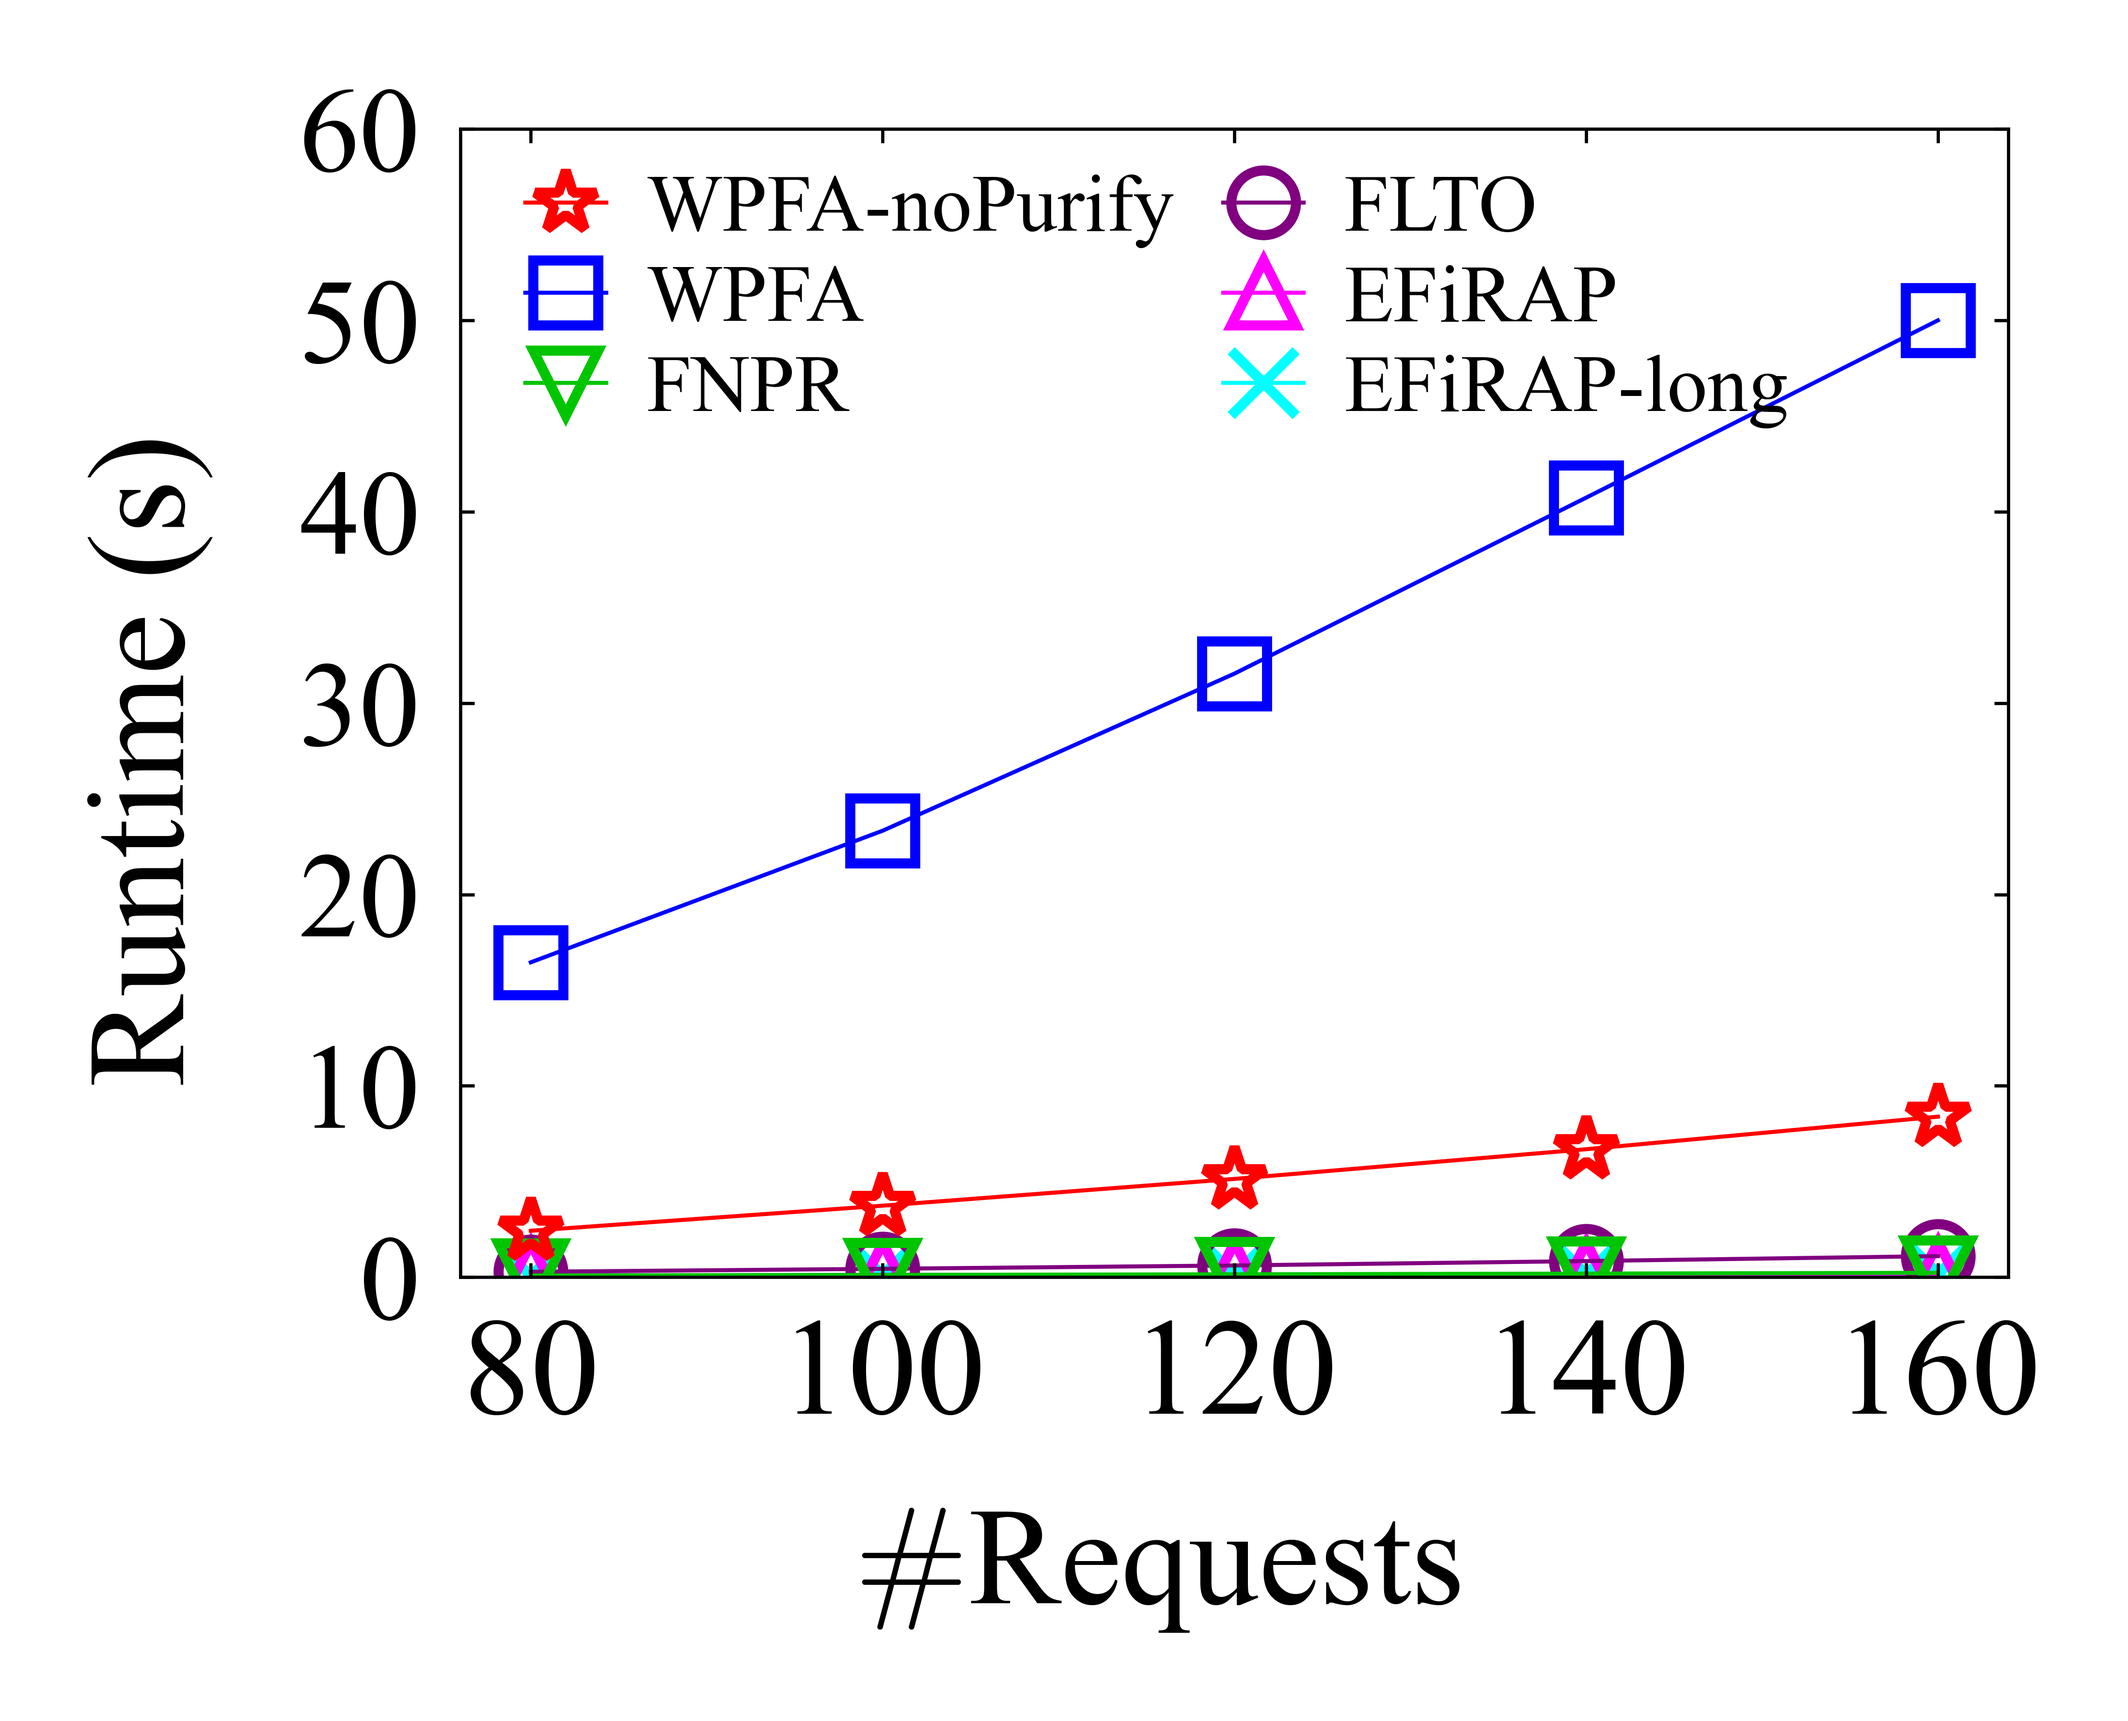
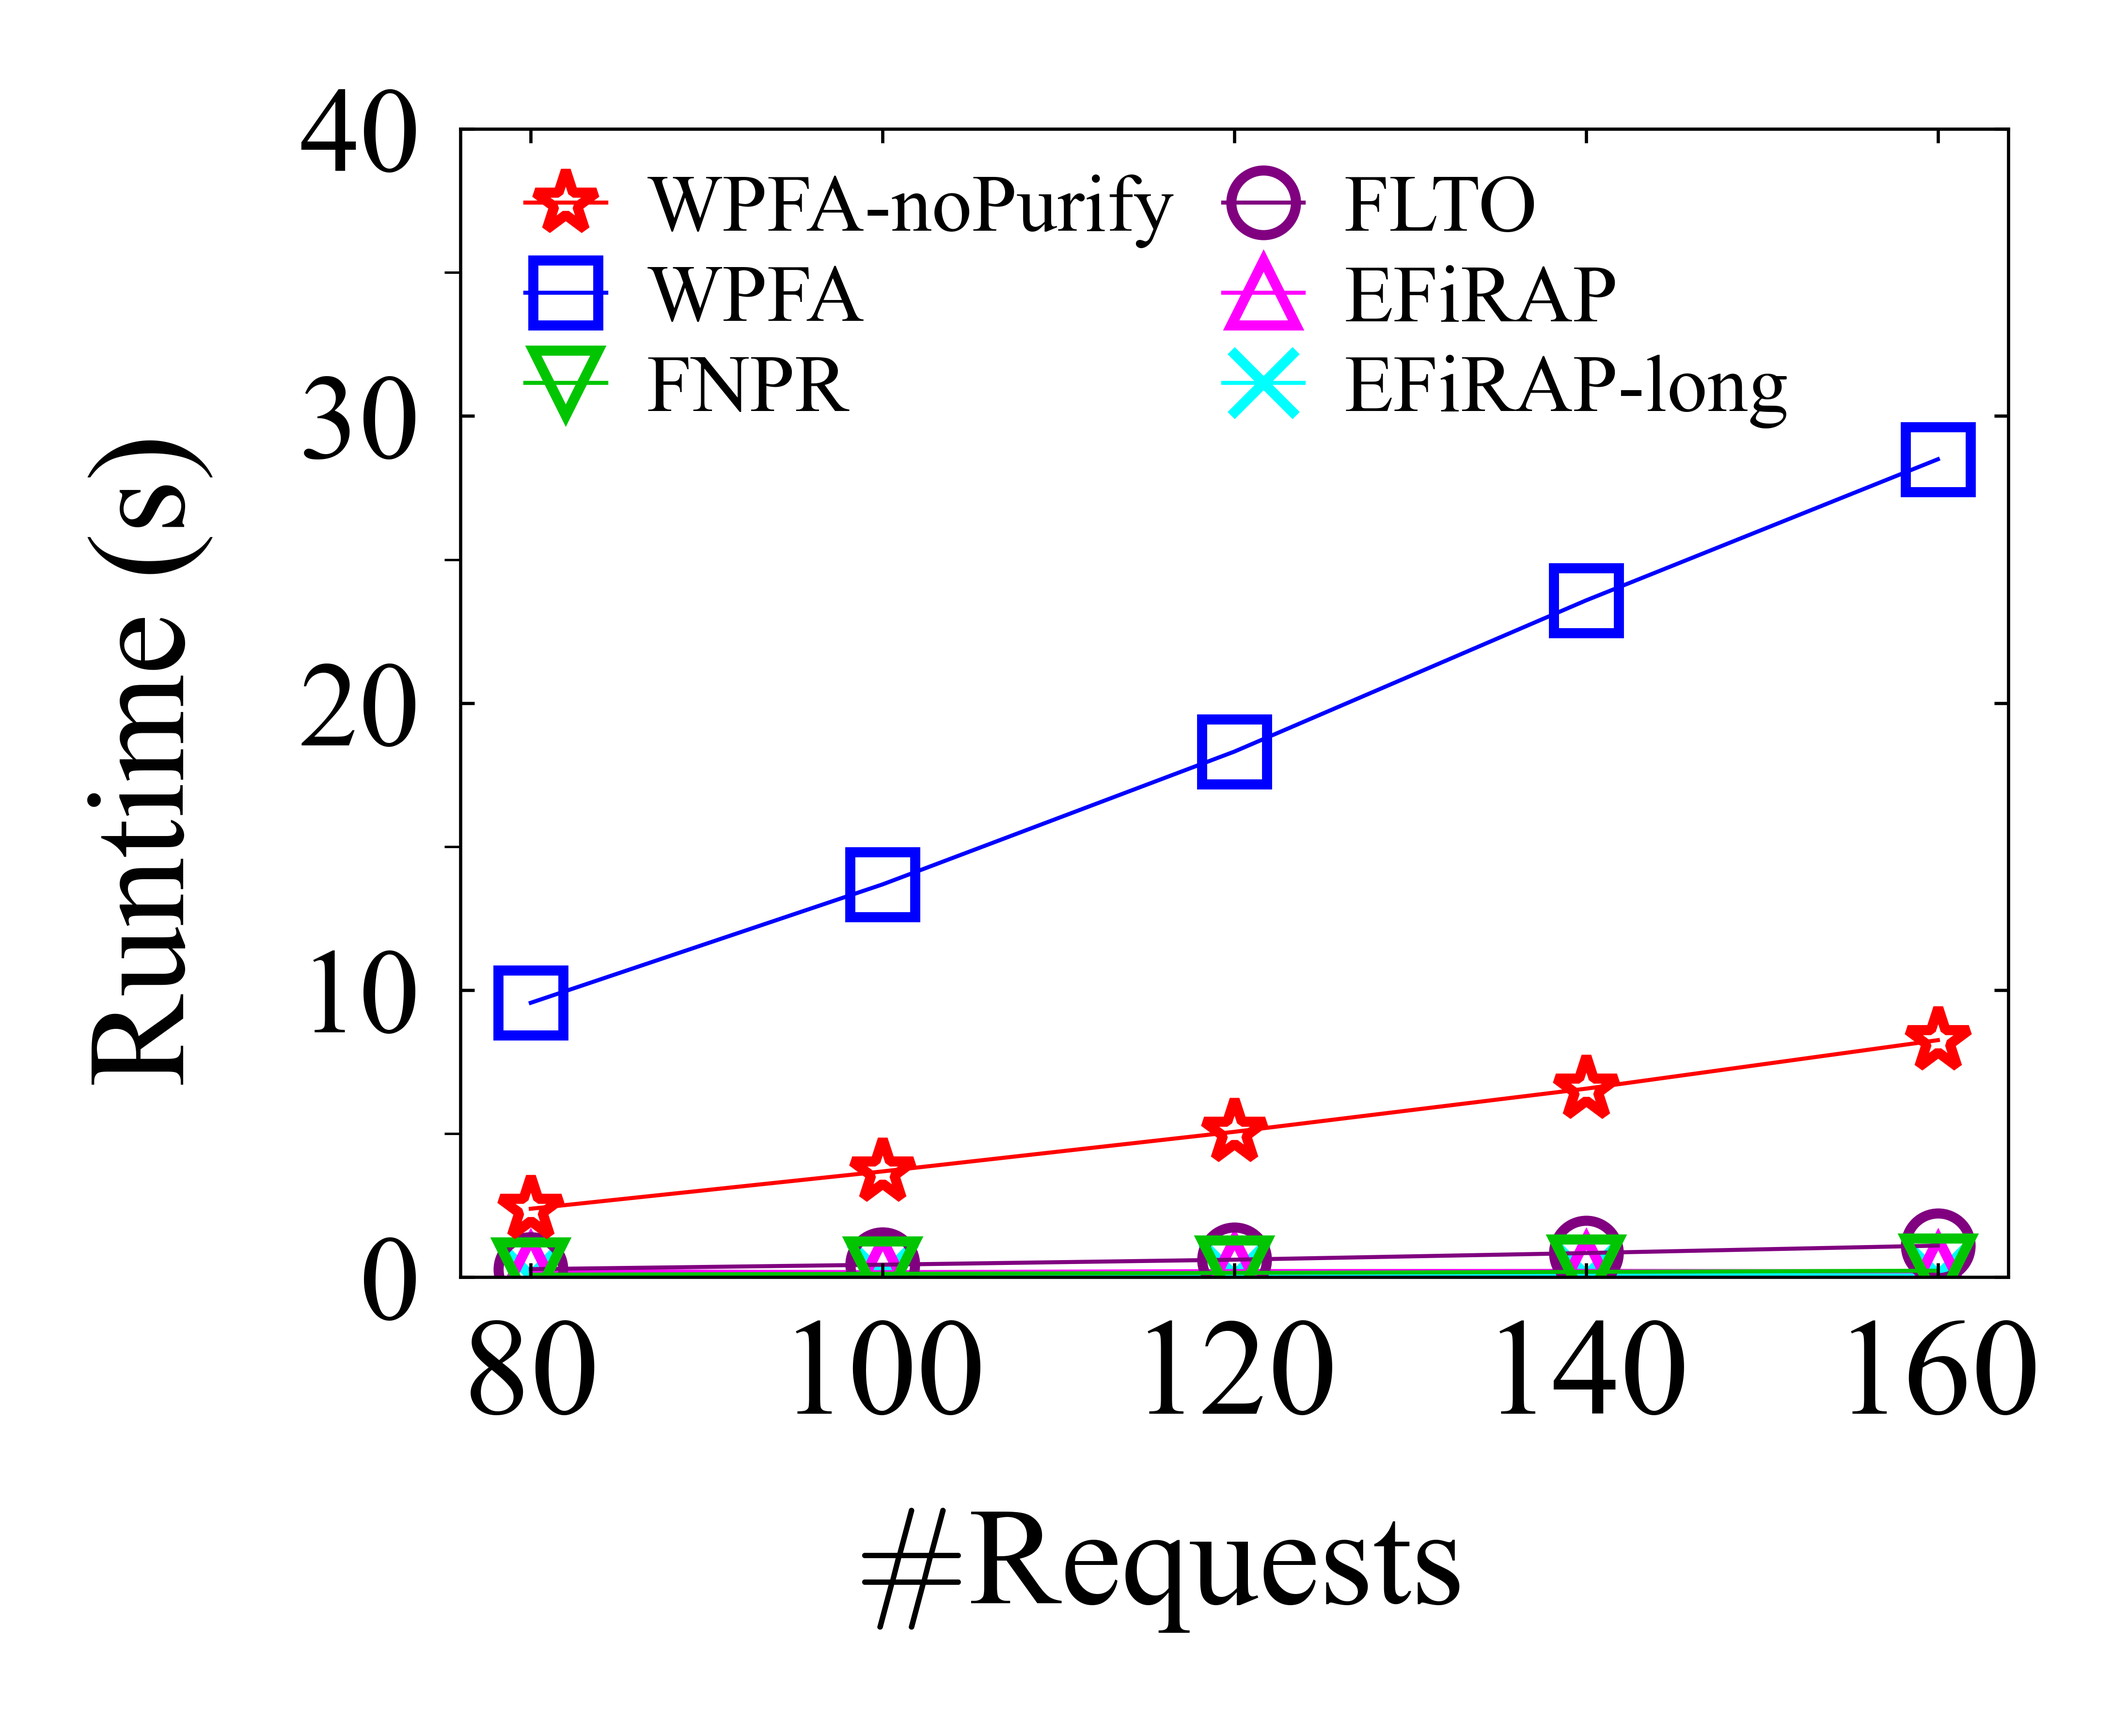
adjust exp

diff --git a/plot/ChartGenerator.py b/plot/ChartGenerator.py
@@ -158,18 +158,18 @@ class ChartGenerator:
 
     _Y_INTERVALS = {
         'fidelity_gain':{
-            'request_cnt': (30, 120, 5, 6), 'tao': (0, 85, 5, 4),
+            'request_cnt': (20, 120, 5, 4), 'tao': (0, 85, 5, 4),
             'time_limit': (20, 80, 5, 4), 'avg_memory': (20, 80, 5, 4),
-            'min_fidelity': (23, 63, 5, 1), 'fidelity_threshold': (0, 90, 5, 6),
-            'swap_prob': (10, 70, 5, 2), 'entangle_time': "auto",
+            'min_fidelity': (23, 63, 5, 1), 'fidelity_threshold': (0, 95, 5, 6),
+            'swap_prob': (10, 80, 5, 4), 'entangle_time': "auto",
             'hop_count':(10,90,5,3),
             'entangle_prob': "auto", 'Zmin': "auto", 'time_eta': "auto", 'bucket_eps': "auto"
         },
         'succ_request_cnt':{
-            'request_cnt': (40, 140, 5, 4), 'tao': (0, 90, 5, 6),
-            'time_limit': (45, 60, 5, 1), 'avg_memory': (40, 80, 5, 4),
-            'min_fidelity': (65, 95, 5, 1), 'fidelity_threshold': (0, 90, 5, 6),
-            'swap_prob': (25, 70, 5, 1), 'hop_count':(20,105,5,7),
+            'request_cnt': (30, 140, 5, 6), 'tao': (0, 90, 5, 6),
+            'time_limit': (40, 90, 5, 4), 'avg_memory': (30, 90, 5, 6),
+            'min_fidelity': (65, 95, 5, 1), 'fidelity_threshold': (0, 105, 5, 5),
+            'swap_prob': (20, 90, 5, 4), 'hop_count':(20,105,5,7),
             'entangle_time': "auto",
             'entangle_prob': "auto", 'Zmin': "auto", 'time_eta': "auto", 'bucket_eps': "auto"
         },
@@ -183,14 +183,14 @@ class ChartGenerator:
         },
         'actual_req_cnt':{
             'request_cnt': (40,165,5,8), 'tao': (0,120,5,4),
-            'time_limit': (50,75,5,1), 'avg_memory': (50,100,5,5),
-            'min_fidelity': "auto", 'fidelity_threshold': (0,85,5,4),
+            'time_limit': (50,110,5,5), 'avg_memory': (35,115,5,7),
+            'min_fidelity': "auto", 'fidelity_threshold': (0,125,5,5),
             'swap_prob': (50,100,5,5), 'hop_count': "auto",
             'entangle_time': "auto",
             'entangle_prob': "auto", 'Zmin': "auto", 'time_eta': "auto", 'bucket_eps': "auto"
         },
         'runtime':{
-            'request_cnt': "auto", 'tao': "auto", 'time_limit': "auto",
+            'request_cnt': (0,40,5,2), 'tao': "auto", 'time_limit': "auto",
             'avg_memory': "auto", 'min_fidelity': "auto", 'fidelity_threshold': "auto",
             'swap_prob': "auto", 'hop_count': "auto", 'entangle_time': "auto",
             'entangle_prob': "auto", 'Zmin': "auto", 'time_eta': "auto", 'bucket_eps': "auto"

diff --git a/src/main.cpp b/src/main.cpp
@@ -432,7 +432,6 @@ int main(){
     change_parameter["num_nodes"] = {30, 40, 50, 60, 70};
     change_parameter["min_fidelity"] = {0.6, 0.7, 0.8, 0.9, 0.95};
     change_parameter["avg_memory"] = {4, 6, 8, 10, 12, 16, 20};
-    // change_parameter["tao"] = {0.3, 0.4, 0.5, 0.6, 0.7};
     change_parameter["tao"] = {0.001,0.002,0.003,0.004,0.005};
     change_parameter["path_length"] = {3, 6, 9, 12, 15};
     change_parameter["swap_prob"] = {0.6, 0.7, 0.8, 0.9,0.95};
@@ -532,7 +531,17 @@ int main(){
 
     // vector<string> X_names = {"time_limit", "request_cnt", "num_nodes", "avg_memory", "tao"};
     //vector<string> X_names = {"request_cnt"};
-    vector<string> X_names = { "request_cnt", "time_limit", "tao",  "fidelity_threshold" , "avg_memory","hop_count","swap_prob" };
+    vector<string> X_names = {/*  "request_cnt", "time_limit", */ "tao"/* ,  "fidelity_threshold" , "avg_memory","hop_count","swap_prob" */ };
+    // Set EXPERIMENT_X_NAME (for example, EXPERIMENT_X_NAME=tao) to rerun a
+    // single sweep without truncating or recomputing the other result files.
+    if(const char* selected_x = std::getenv("EXPERIMENT_X_NAME")) {
+        const string selected_name(selected_x);
+        if(change_parameter.find(selected_name) == change_parameter.end()) {
+            cerr << "Unknown EXPERIMENT_X_NAME: " << selected_name << endl;
+            return 2;
+        }
+        X_names = {selected_name};
+    }
     //vector<string> X_names = {"Zmin","bucket_eps","time_eta"};
     vector<string> Y_names = {
         "fidelity_gain", "succ_request_cnt", "actual_req_cnt", "runtime"

diff --git a/src/Algorithm/WernerAlgo2/WernerAlgo2.h b/src/Algorithm/WernerAlgo2/WernerAlgo2.h
@@ -34,7 +34,7 @@ public:
                double epsilon = 0.55,
                // WPFA uses finer Z/P buckets than the shared graph default.
                // Runtime experiments can still override this explicitly.
-               double bucket_eps = 0.01);
+               double bucket_eps = 0.0001);
 
     void run();
     void set_experiment_label(const string& label) { experiment_label = label; }
